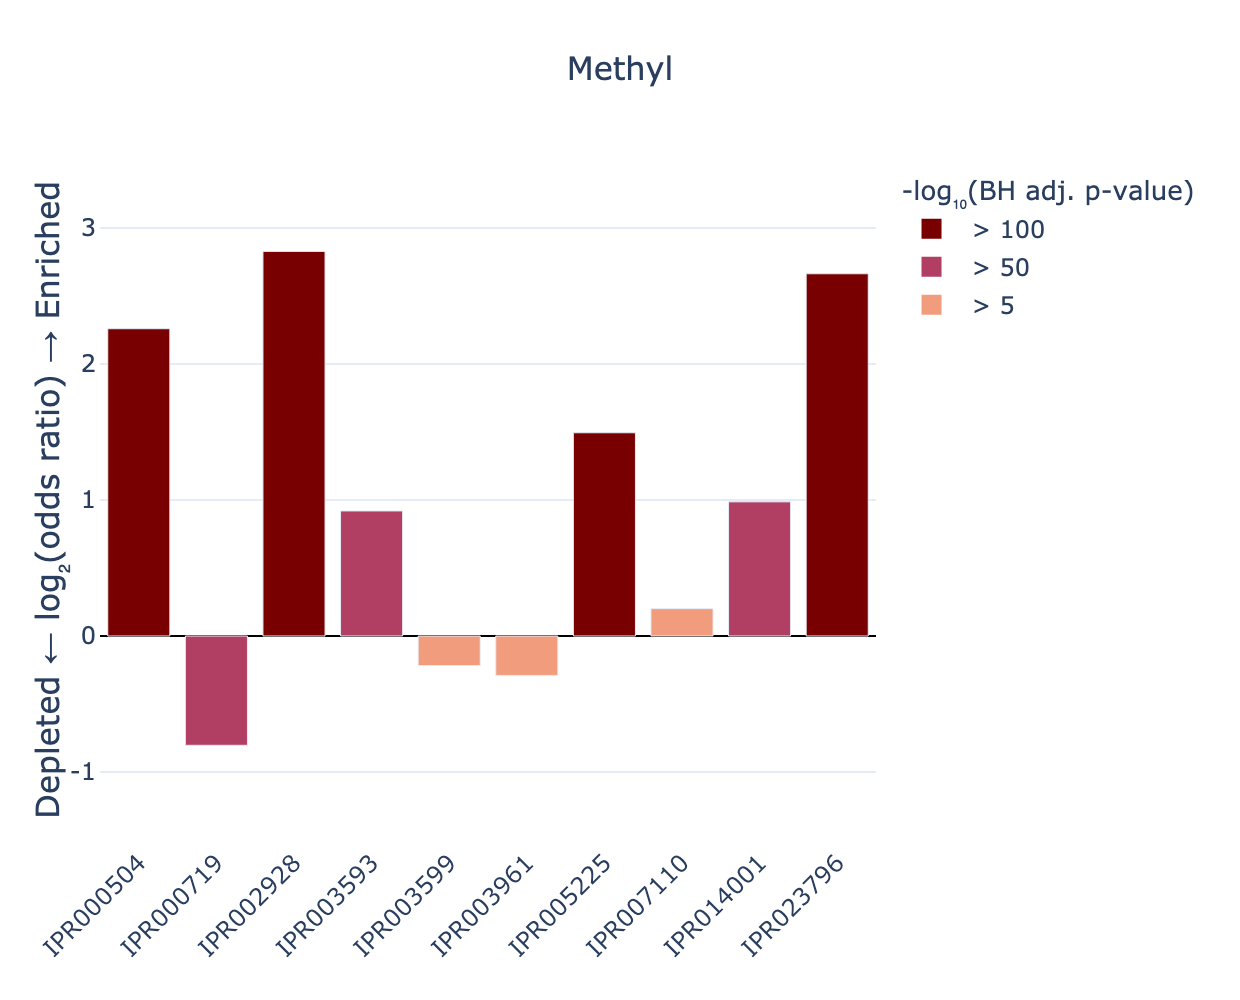
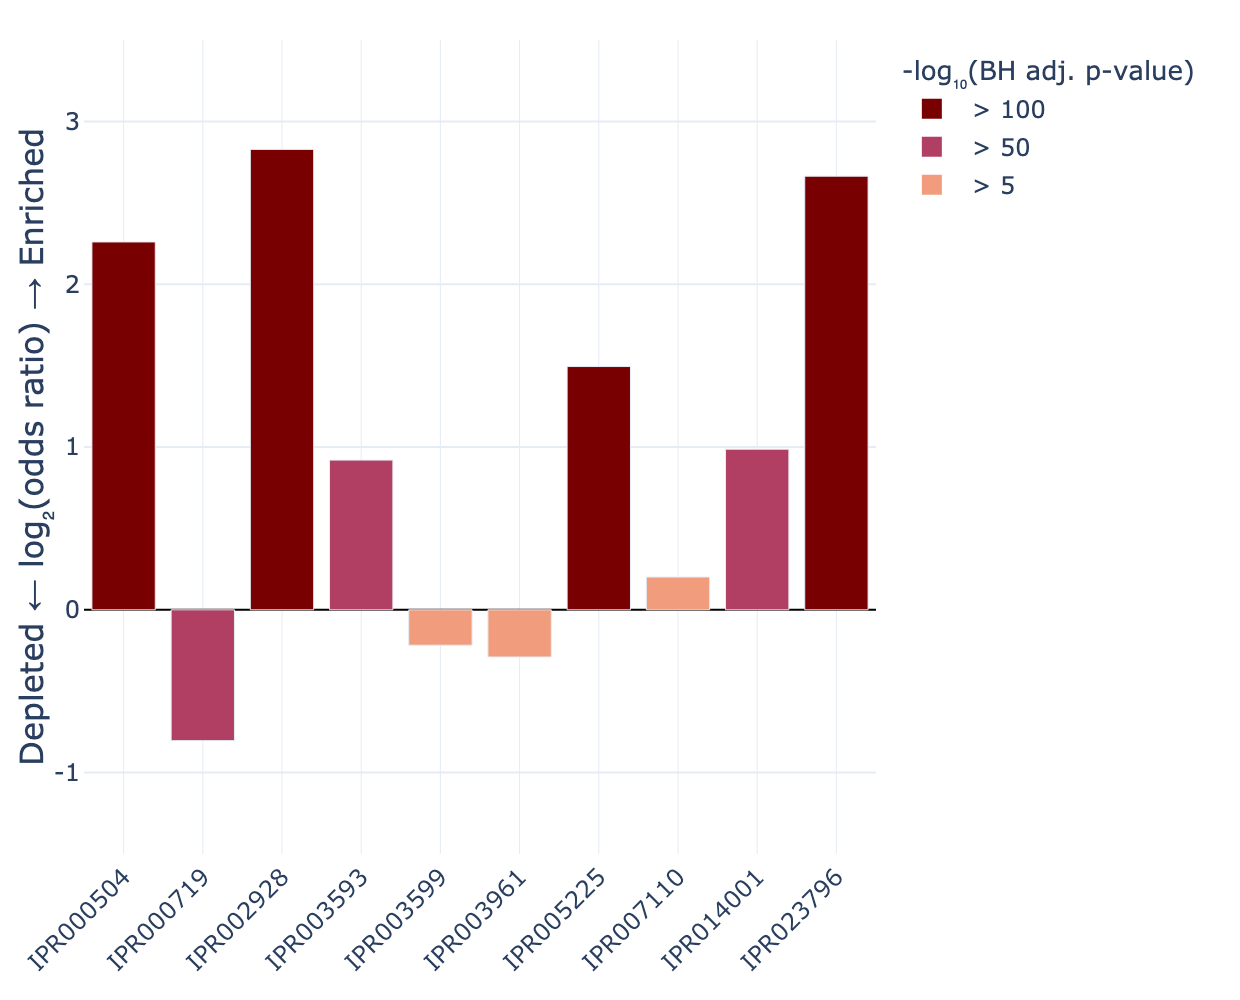
update

diff --git a/visualise_protmodcon.py b/visualise_protmodcon.py
@@ -285,14 +285,6 @@ def single_vis(
                     name=f'> {threshold}'
                 ))
         fig.update_layout(
-            title={
-                'text': (next(iter({clean_name(item) for item in x}))),
-                'font': {'size': 16},
-                'x': 0.5,
-                'xanchor': 'center'
-                #'y': 0.91,  # Further move title closer to plot
-                #'yanchor': 'top'
-            },
             yaxis_title='Depleted ← log₂(odds ratio) → Enriched',
             yaxis_title_standoff=0,
             barmode='relative',
@@ -302,9 +294,10 @@ def single_vis(
                 categoryarray=x_sorted,
                 tickangle=0 if any(val in {'A', 'C', 'D', 'E', 'F', 'G', 'H', 'I', 'K', 'L', 'M', 'N', 'P', 'Q', 'R', 'S', 'T', 'V', 'W', 'Y'} for val in y) else -45, # -90 = vertical labels <> -45 = diagonal labels <> 0 = horizontal label rotation
                 tickfont=dict(size=12),
-                automargin=False,
-                title_standoff=0,  # Further reduce space between x-axis and labels            
-            ),
+                automargin=True,
+                showgrid=True,
+                gridcolor='rgb(229, 236, 246)',
+                gridwidth=0.5),
             yaxis=dict(
                 range=[min(tick_vals) - 0.5, max(tick_vals) + 0.5],
                 tickvals=tick_vals,
@@ -315,16 +308,15 @@ def single_vis(
                 showgrid=True,
                 gridcolor='rgb(229, 236, 246)',
                 gridwidth=1,
-                title_standoff=0, # Further reduce space between y-axis and title
                 title_font=dict(size=16)
             ),
             plot_bgcolor='white',
             showlegend=True,
             margin=dict(
-                l=50,
-                r=50,
-                b=80,  # Further reduce bottom margin
-                t=80,  # Further reduce top margin
+                l=20,
+                r=20,
+                b=20,  # Further reduce bottom margin
+                t=20,  # Further reduce top margin
                 pad=1
             )    
         )
@@ -473,18 +465,7 @@ def multiple_vis(
             ))
 
     # Add shapes for all grid lines FIRST (so they're underneath the data)
-    for i in range(len(unique_descriptions)):
-        # Add main gridlines at each label position
-        fig.add_shape(
-            type="line",
-            x0=x_axis_range[0],
-            y0=i,
-            x1=x_axis_range[1],
-            y1=i,
-            line=dict(color="rgb(229, 236, 246)", width=1, dash="solid"),
-            layer="between"
-        )
-        
+    for i in range(len(unique_descriptions)):       
         # Add intermediate gridline if not the last position
         if i < len(unique_descriptions) - 1:
             fig.add_shape(
@@ -493,25 +474,21 @@ def multiple_vis(
                 y0=i + 0.5,  # Positioned halfway between labels
                 x1=x_axis_range[1],
                 y1=i + 0.5,
-                line=dict(color="rgb(242, 245, 250)", width=0.75, dash="solid"),  # Lighter color and dashed
+                line=dict(color="rgb(229, 236, 246)", width=2, dash="solid"),
                 layer="below"
             )
     
     # Update layout
     fig.update_layout(
-        title={
-            'text': "Depleted ← log₂(odds ratio) → Enriched",
-            'font': {'size': 16},
-            'x':0.43, # to exactly postion the 'o' in odds above the central 0
-            'xanchor': 'center'
-        },
+        title=None,
         width=800,
         height= max(300, 100 + (len(unique_descriptions) * 50)),  # Increased spacing for better readability
         margin=dict(
-            l=200,  # Increased left margin for longer IPR and descriptions
-            r=350,
-            t=50,
-            b=75
+            l=20,  # Increased left margin for longer IPR and descriptions
+            r=20,
+            t=60,
+            b=20,
+            pad=1
         ),
         yaxis=dict(
             side='right',
@@ -541,6 +518,22 @@ def multiple_vis(
         ),
         plot_bgcolor='white',
         showlegend=True
+    )
+    
+    title_text = "Depleted ← log₂(odds ratio) → Enriched"
+
+    # 2. Add an annotation that serves as the title
+    # This positions the 'o' in 'odds' exactly at the zero point on the x-axis
+    fig.add_annotation(
+        text=title_text,
+        font=dict(size=16),
+        xref='x',  # Using x-axis coordinates instead of paper
+        yref='paper',
+        x=0,  # Zero point on the x-axis
+        y=1.08,  # Position above the plot (adjust as needed)
+        showarrow=False,
+        xanchor='center',  # Center at the specified position
+        xshift=16,  # Shift to position the 'o' at zero (approximate pixel width of "Depleted ← log₂(")
     )
 
     return fig 

diff --git a/protmodcon.py b/protmodcon.py
@@ -139,9 +139,9 @@ def precompute_nm_nc_k(x_types, y_types, ptm_name_AA, protein_id_annotation_posi
                 # Update progress every 1000 iterations
                 count += 1
                 if count % 1000 == 0 or count == total:
-                    print(f"  Progress: {count}/{total} combinations processed ({count/total*100:.1f}%)")
+                    print(f"Progress: {count}/{total} combinations processed ({count/total*100:.1f}%)")
     
-    print(f"  Precomputation completed in {time.time() - start_time:.2f} seconds")
+    print(f"Precomputation completed in {time.time() - start_time:.2f} seconds")
     return nm_per_d, nc_per_i, k_per_d_i
 
 def process_position_batch(args):
@@ -227,10 +227,6 @@ def process_i(x_types, y_types, n, nm_per_d, nc_per_i, k_per_d_i):
         (idx, table_a[idx], table_b[idx], table_c[idx], table_d[idx]) 
         for idx in valid_indices
     ]
-    for idx in valid_indices:
-        if any(val < 0 for val in (table_a[idx], table_b[idx], table_c[idx], table_d[idx])):
-            print(table_a[idx], table_b[idx], table_c[idx], table_d[idx])
-            print(x_array[idx], y_array[idx])
     # Parallel computation of p-values
     num_processes = min(os.cpu_count(), len(valid_indices))
     if num_processes > 1 and len(valid_indices) > 10:  # Only use multiprocessing for larger datasets
@@ -581,7 +577,7 @@ if __name__ == "__main__":
     )
     parser.add_argument(
         '--modifiability', nargs='*', default=[],
-        help='Optional: Modifiability of amino acids per modification type. Format: "[Unimod accession]name:AA1,AA2", where the name corresponds to the Unimod PSI-MS Name or, if unavailable, the Unimod Interim name, e.g. --modifiability "[21]Phospho:S,T,Y" (double quotes mandatory). Valid ptm_name-AA combinations can be found as keys in data/ptm_name_AA.json.
+        help='Optional: Modifiability of amino acids per modification type. Format: "[Unimod accession]name:AA1,AA2", where the name corresponds to the Unimod PSI-MS Name or, if unavailable, the Unimod Interim name, e.g. --modifiability "[21]Phospho:S,T,Y" (double quotes mandatory). Valid ptm_name-AA combinations can be found as keys in data/ptm_name_AA.json.'
     )
 
     args = parser.parse_args()
